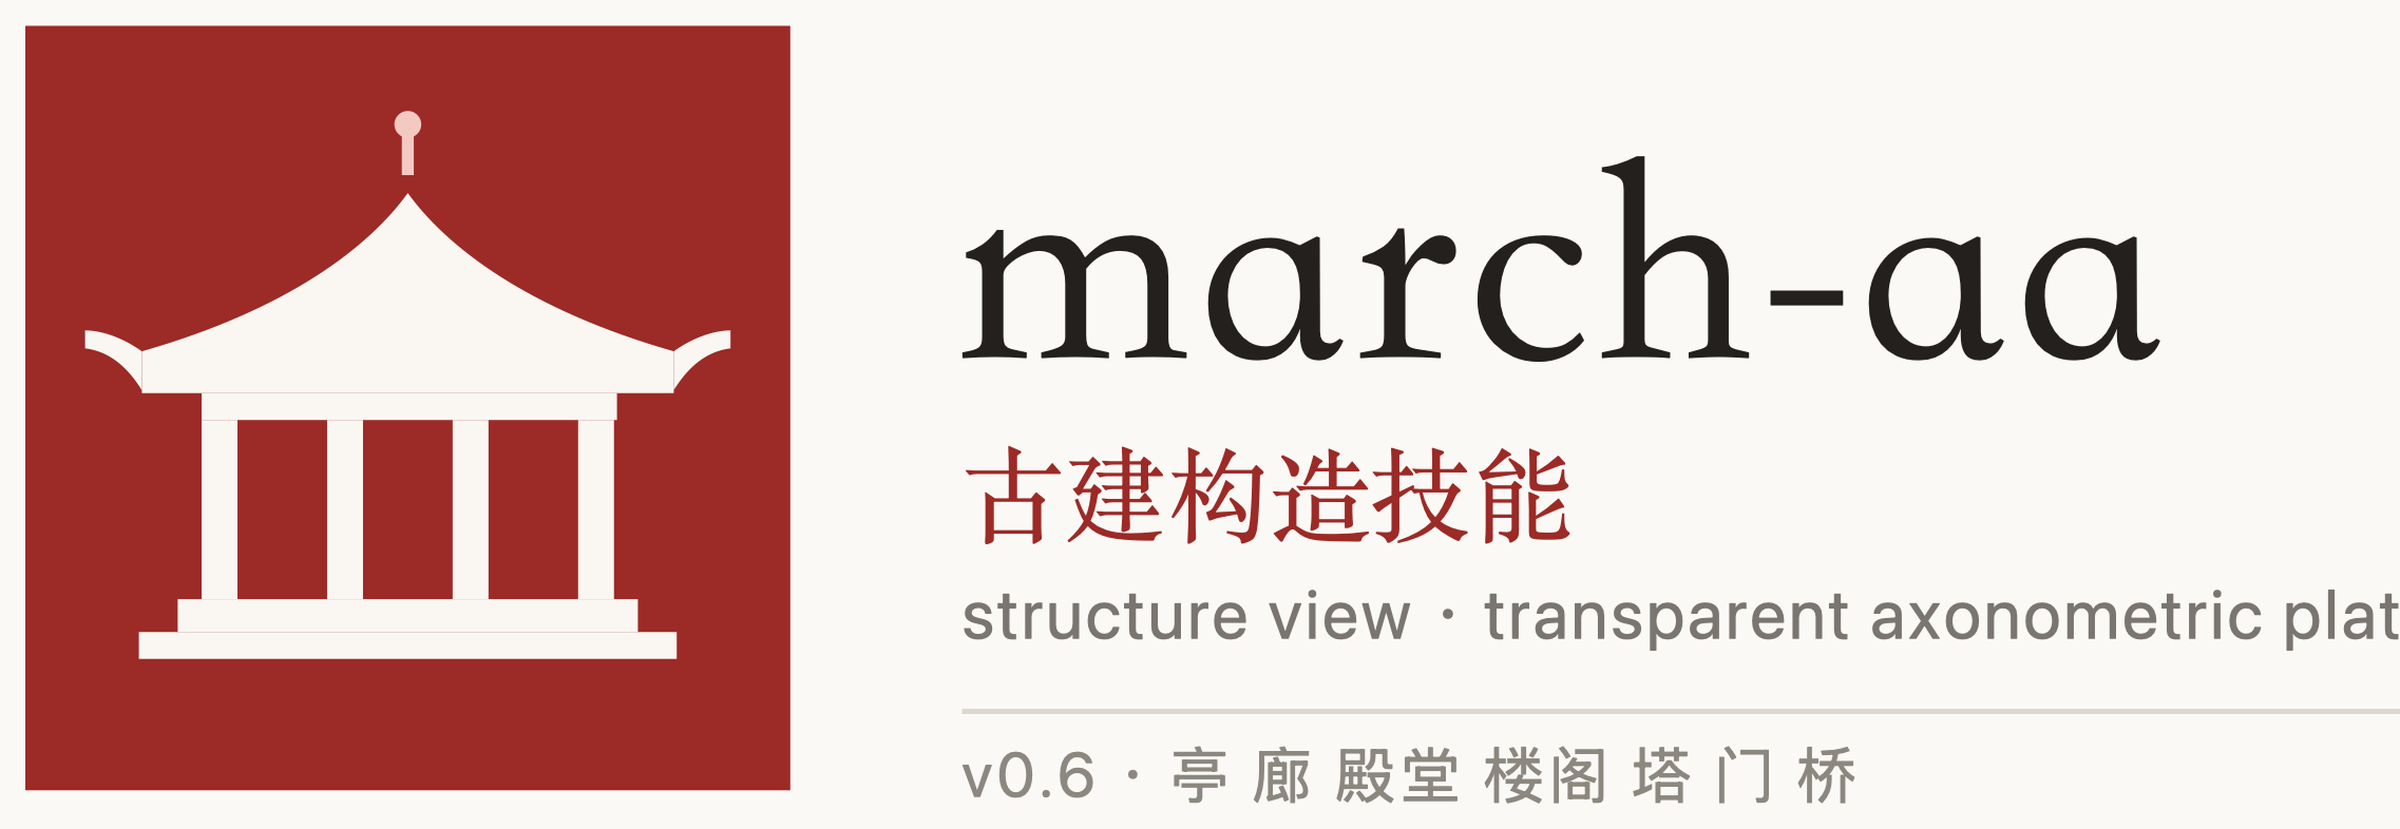
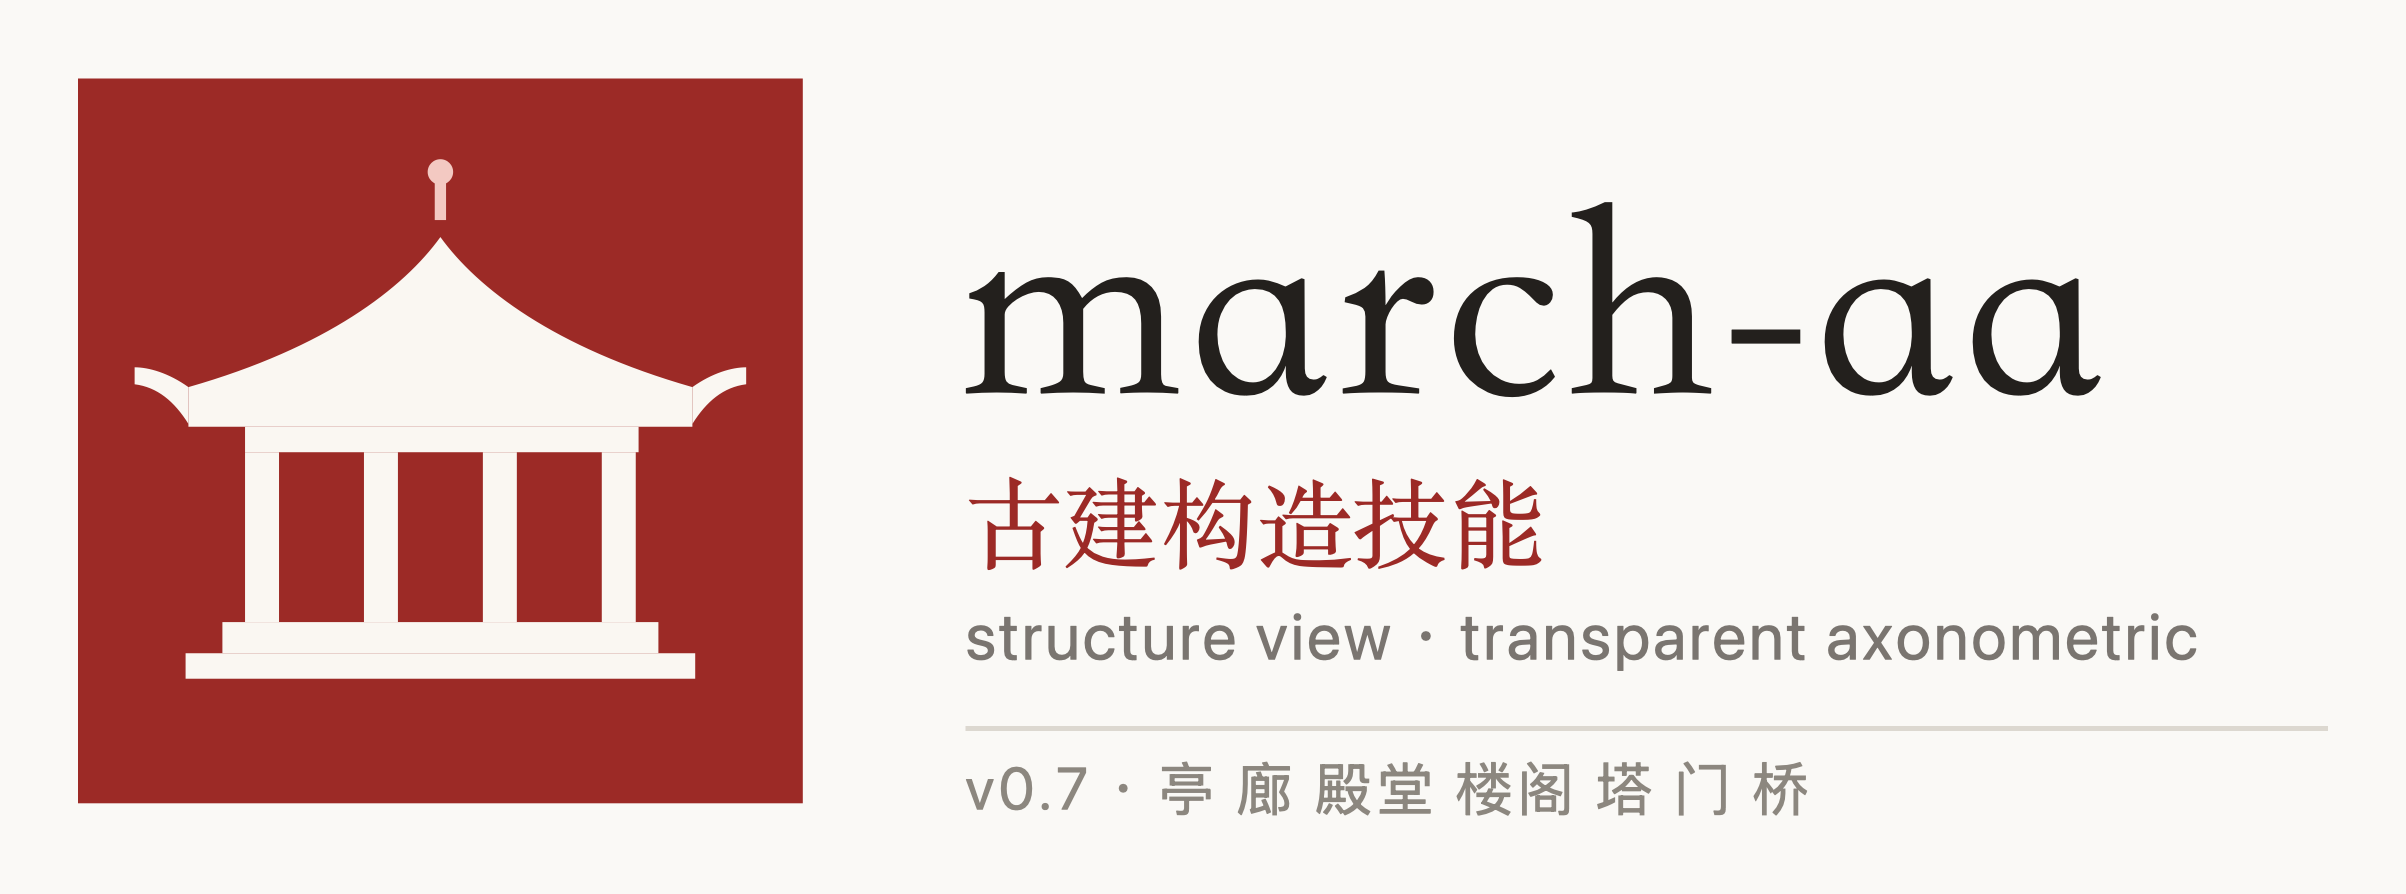
release: v0.7 —— 编号 callout_xy 体系 + fit_callouts、三档线重、五孔石拱桥、三圣殿（金）、照片卡横版

diff --git a/march-aa-structure-view/CHANGELOG.md b/march-aa-structure-view/CHANGELOG.md
@@ -1,3 +1,33 @@
+## v0.7（2026-11-27）
+
+这一版的主体是**编号标注**——从「按高度猜锚点」改成「按真实绘制的像素算坐标」，并把规则写成规范；同时补了桥与一座金代殿堂。
+
+### 编号标注（新增 `callout_xy` 体系）
+
+- 每个样本可写顶层 `callout_xy`：`label → [x, y]`（分数坐标）。`[x, y]` 表示徽标直接压在构件上、不画引线；`[x, y, ax, ay]` 才画一条短引线指回锚点。
+- 坐标不再靠估：新增 `scripts/fit_callouts.py`，先 `monkeypatch` 录制 `Canvas.poly`，再按**实际绘制顺序**栅格化得到 id 图，用顶点签名把像素匹配回构件 `part`，取「离锚点最近的该构件可见像素」写回 JSON。
+- 修掉三个真因：① 编号曾按屏幕高度重排（与图例顺序错位）；② `_PART_KEYS` 关键词顺序让「墙体直棂窗」被识别成墙体；③ 本轴测里 `+y` 才是有门那一侧，金柱/柱础/额枋/梁架的锚点高度与朝向都调了。
+- 徽标避让收敛为「宁可挤、不离开构件」：`rr = r_mark * 1.25`、`push = (rr - d) * 0.30`；构件完全不可见时才允许外移并画引线。
+- 新增 `references/callouts.md`：三条铁律（号按清单顺序 / 点必须由像素反算 / 引线只兜底）+ 事故对照表 + 十类构件的可见像素实测 + 反例清单；`references/lessons.md` 加第 26 条；`SKILL.md` 重写版式章节并增「编号标注（最容易翻车的地方）」。
+- 已按此流程重做 `hall_tang`（十点全部落位）与 `sansheng`、`qiao5`。
+
+### 线重与版式
+
+- **按结构角色分三档线重**：`body` 1.30 / `mass` 0.88 / `screen` 0.80 / `accent` 0.70 / `fill` 0.70。骨（柱、梁架、斗拱）→ 皮（墙、门窗、台基）→ 饰（瓦垄、脊饰）拉开层次，原先「所有构件同一档线」的糊感消失。
+- 版式常量：编号图例行距 `62 → 78ts`；正文版心底边上收 `372 → 470ts`（主体上移）；图例整体下移 `150ts`，与主体拉开距离。
+- **右上角原图按原比例显示**：不再强裁 4:5 竖版，横图就是横版（比例夹在 0.6–2.0），并按标题实际排字宽度收窄，避免压住标题。
+
+### 新增样本与构件
+
+- **五孔石拱桥** `qiao5`：一中孔 + 每侧两小孔，各孔按 `[中心位置, 跨占比, 矢高比]` 独立参数化；桥面沿各孔拱背取包络并做窗口闭运算，驼峰自然起伏；券脸石环 + 券石径向缝；桥台、栏板望柱、桥面分开标注。正视出图（`view: "front"`）才能一眼数出五孔。
+- **善化寺三圣殿（金）** `sansheng`：面阔五间、进深四间，单檐庑殿，`bracket: "xiegong"`（60° 斜拱）、`ridge_orn: "chiwen"`、覆盆柱础、梭柱、阑额、直棂窗、垂带踏道。图一（构造关系轴测）+ 图二（照片 + 四层爆炸）都已出。
+- 图二支持按建筑改写文案：`job['styleNote']`、`job['eraNote']`、`job['explodeNotes']`，金代样本不再沿用「唐构的三件事」。
+
+### 其它
+
+- 照片卡新增 `_photo_ar()`，`_photo_card()` 改为等比缩放不裁切。
+- `scripts/check.py` 覆盖样本 17 → **19**，全部通过。
+
 ## v0.6（2026-11-27）
 
 把「照片里能看出时代」的构件类型补到可参数化。每个字段一个取值，标注里直接写出类型名。

diff --git a/march-aa-structure-view/README.md b/march-aa-structure-view/README.md
@@ -4,7 +4,7 @@
 
 <p align="center">
   <b>把一张古建照片，变成一张能讲清「它怎么站住」的透明构造图</b><br>
-  <sub>v0.6 · 参数化矢量 · 不生成 AI 图 · 覆盖 亭 / 廊 / 殿堂 / 楼阁 / 塔 / 门 / 桥</sub>
+  <sub>v0.7 · 参数化矢量 · 不生成 AI 图 · 覆盖 亭 / 廊 / 殿堂 / 楼阁 / 塔 / 门 / 桥</sub>
 </p>
 
 ---
@@ -245,23 +245,28 @@ python scripts/structure_plate.py --json draft.json --out out/x.png
 │   ├── photo-to-json.md      # 照片 → 形制 的流程
 │   └── families/             # 七类各自的做法与参数
 ├── assets/
-│   ├── samples/              # 9 个可跑的 job.json
+│   ├── samples/              # 19 个可跑的 job.json
 │   ├── brand/                # logo（svg / png）
 │   └── fonts/                # 霞鹜文楷（OFL）
 └── out/                      # 示例成图
 ```
 
-## 现在做到哪了（v0.6）
+## 现在做到哪了（v0.7）
 
-**能用的**：七类形制都能出图；轴测与正立面两种视角；构件编号 + 作用注 + 传力链 + 画法图例 +
-比例尺 + 尺寸注记；4 种画幅（3:4 / 1:1 / 4:3 / 9:16）；照片→形制的前五步。
+**能用的**：七类形制都能出图（含五孔石拱桥）；轴测与正立面两种视角；构件编号 + 作用注 +
+画法图例 + 比例尺 + 尺寸注记；4 种画幅（3:4 / 1:1 / 4:3 / 9:16）；照片→形制的前五步；
+照片卡按原图比例显示（横图不会被裁成竖版）。
+
+**编号标注**：v0.7 起坐标由「实际绘制顺序的可见像素」反算（`scripts/fit_callouts.py`），
+样本可用 `callout_xy` 手工覆盖；规则见 `references/callouts.md`。
 
 **还差的**（写在 `CHANGELOG.md`）：
 
-- 梁架标注的锚点仍是估算值，应从屋架返回真实杆件坐标；
-- 鸱尾鳍根与脊身没有完全咬合；
-- 门与踏道在轴测视角里还没精确落在可见面正中；
-- 斗拱的三跳横拱尚未连成连续横带。
+- 五孔桥的图版式偏空（40 m 长的桥放进 4:3 只占中间一条），主体还没上移；
+- 爆炸图缺贯穿各层的竖向虚线引线；
+- 构件图说（第三张图）里屋面是玻璃罩，梁架、檩椽透过它发虚；
+- 其余样本还没逐个跑 `fit_callouts` 补坐标；
+- 斗拱三跳横拱未连成连续横带；鸱尾鳍根与脊身没有完全咬合。
 
 ## 关于 march-aa
 
@@ -270,7 +275,7 @@ python scripts/structure_plate.py --json draft.json --out out/x.png
 
 | 技能 | 做什么 | 状态 |
 |---|---|---|
-| `march-aa-structure-view` | 透明构造关系图（本仓库） | v0.6 |
+| `march-aa-structure-view` | 透明构造关系图（本仓库） | v0.7 |
 | `march-aa-exploded-plate` | 分层爆炸图 | v1.1 |
 
 ## 许可

diff --git a/march-aa-structure-view/SKILL.md b/march-aa-structure-view/SKILL.md
@@ -1,6 +1,6 @@
 ---
 name: march-aa-structure-view
-version: 0.6.0
+version: 0.7.0
 license: MIT
 project: march-aa
 description: 把一张古建照片/一句形制描述，做成「透明构造关系轴测图」——玻璃罩式的屋面、被遮构件降为浅虚线、朱红传力链，用来讲清古建怎么站住、力怎么传。覆盖亭/廊/殿堂/楼阁/塔/门/桥七类，输出可印刷的矢量风 PNG。
